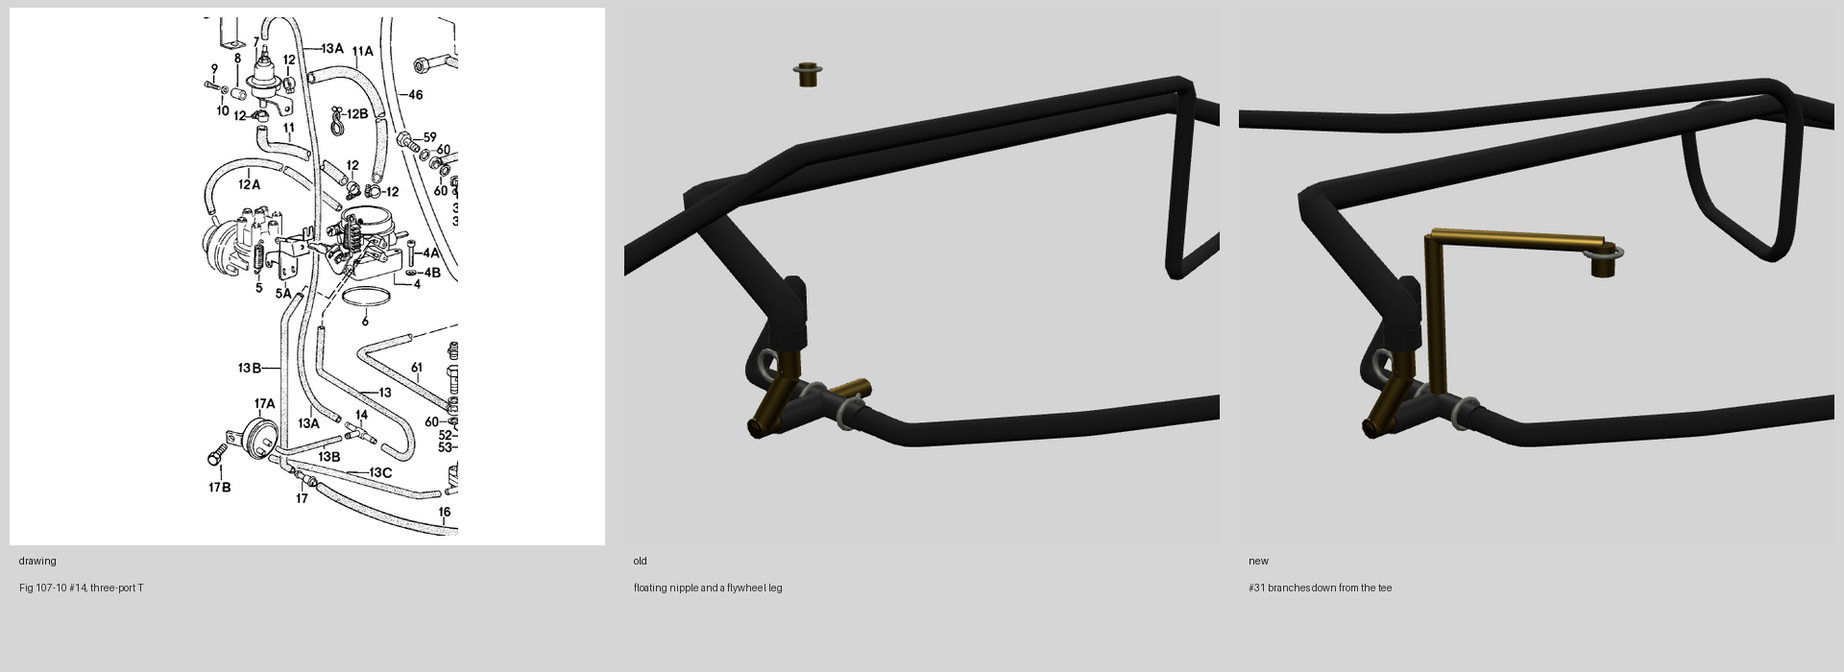
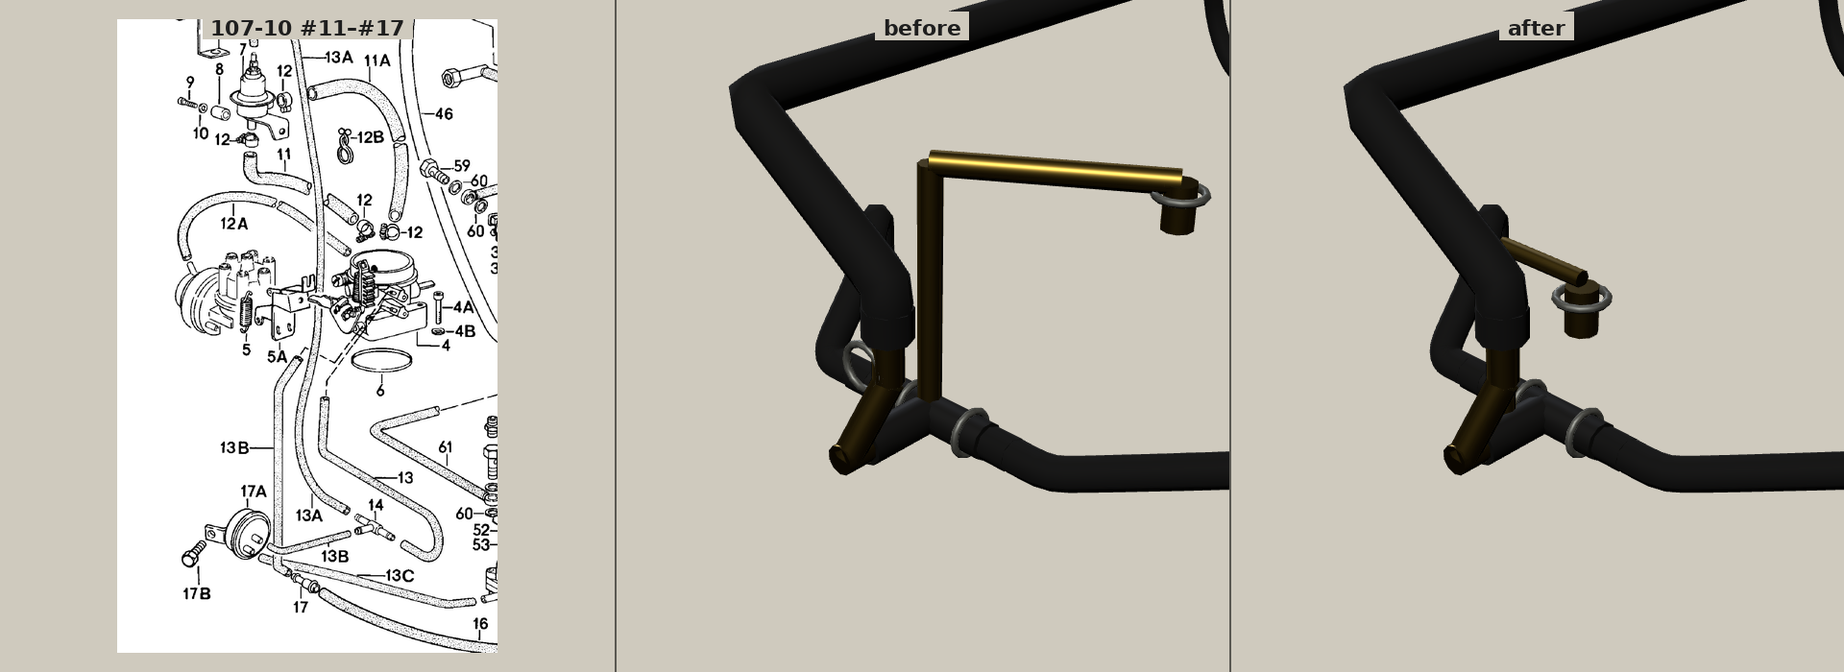
Seat the diverter barb off the tee cross and drop the stray clamp ring.
The upright zinc ring beside the elbow had no barb in it. The tall riser to (40, 300, 40) is gone. TEE_AIR_INJ is the 8 mm nipple at (22, 286, 70), axis (0, -1, 0), with 5.3 mm of free brass below its ring and a clear downward lead-in.

diff --git a/tests/vacuum-barbs.test.ts b/tests/vacuum-barbs.test.ts
@@ -11,6 +11,7 @@ const BRASS = 0xc9a54a;
 const PLASTIC = 0x151515;
 const CAST = 0x96989a;
 const RUBBER = 0x0e0e0e;
+const ZINC = 0xb4b6ae;
 
 const INDUCTION_HW = new Set(
   SMALL_SPECS.filter((s) => s.step === 'intake' || s.step === 'cis').map((s) => s.id),
@@ -368,6 +369,186 @@ describe('diverter barb lead-in', () => {
       if (hit && hit.distance < best) { best = hit.distance; who = p.id; }
     }
     expect(best + 0.5, `first hit ${who}`).toBeGreaterThanOrEqual(30);
+  });
+});
+
+type Ring = { part: string; center: THREE.Vector3; axis: THREE.Vector3; tube: number };
+
+/** Hole axis of a torus. Vertices stay in generator order after a baked rotation. */
+function torusFrame(geom: THREE.BufferGeometry, world: THREE.Matrix4): { center: THREE.Vector3; axis: THREE.Vector3 } | null {
+  const radial = params(geom)?.radialSegments;
+  const tubular = params(geom)?.tubularSegments;
+  if (radial == null || tubular == null) return null;
+  const stride = tubular + 1;
+  const P = geom.attributes.position;
+  const centers: THREE.Vector3[] = [];
+  for (let i = 0; i < tubular; i++) {
+    const c = new THREE.Vector3();
+    let n = 0;
+    for (let j = 0; j < radial; j++) {
+      c.add(new THREE.Vector3().fromBufferAttribute(P, j * stride + i));
+      n++;
+    }
+    if (n) centers.push(c.multiplyScalar(1 / n).applyMatrix4(world));
+  }
+  if (centers.length < 3) return null;
+  const center = new THREE.Vector3();
+  for (const c of centers) center.add(c);
+  center.multiplyScalar(1 / centers.length);
+  const axis = new THREE.Vector3();
+  for (let i = 0; i < centers.length; i++) {
+    const a = centers[i], b = centers[(i + 1) % centers.length];
+    axis.x += (a.y - center.y) * (b.z - center.z) - (a.z - center.z) * (b.y - center.y);
+    axis.y += (a.z - center.z) * (b.x - center.x) - (a.x - center.x) * (b.z - center.z);
+    axis.z += (a.x - center.x) * (b.y - center.y) - (a.y - center.y) * (b.x - center.x);
+  }
+  if (axis.lengthSq() < 1e-8) return null;
+  return { center, axis: axis.normalize() };
+}
+
+function clampRings(): Ring[] {
+  const rings: Ring[] = [];
+  for (const part of PARTS) {
+    if (!inScope(part.id)) continue;
+    const root = ASSET_BUILDERS[part.asset]();
+    root.updateMatrixWorld(true);
+    const pose = poseOf(part.id);
+    root.traverse((o) => {
+      const mesh = o as THREE.Mesh;
+      if (!mesh.isMesh) return;
+      const hex = (mesh.material as THREE.MeshStandardMaterial)?.color?.getHex?.();
+      if (hex !== ZINC) return;
+      const tube = params(mesh.geometry)?.tube;
+      const radius = params(mesh.geometry)?.radius;
+      // Wire clamps on a barb or a small hose. Boot bands and ring terminals are larger.
+      if (tube == null || radius == null || tube < 0.55 || tube > 0.85 || radius < 3 || radius > 8) return;
+      for (const inst of instancesOf(mesh)) {
+        const frame = torusFrame(mesh.geometry, worldOf(pose, mesh, inst));
+        if (frame) rings.push({ part: part.id, ...frame, tube });
+      }
+    });
+  }
+  return rings;
+}
+
+type AxisSeg = { a: THREE.Vector3; b: THREE.Vector3; axis: THREE.Vector3 };
+
+/** Brass, plastic and rubber cylinders, plus tubular hose centrelines, in scope. */
+function clampHosts(): AxisSeg[] {
+  const segs: AxisSeg[] = [];
+  for (const part of PARTS) {
+    if (!inScope(part.id)) continue;
+    const root = ASSET_BUILDERS[part.asset]();
+    root.updateMatrixWorld(true);
+    const pose = poseOf(part.id);
+    root.traverse((o) => {
+      const mesh = o as THREE.Mesh;
+      if (!mesh.isMesh) return;
+      const hex = (mesh.material as THREE.MeshStandardMaterial)?.color?.getHex?.();
+      const named = typeof mesh.name === 'string' && mesh.name.startsWith('line:');
+      const tubular = params(mesh.geometry)?.tubularSegments;
+      for (const inst of instancesOf(mesh)) {
+        const world = worldOf(pose, mesh, inst);
+        if ((hex === BRASS || hex === PLASTIC || hex === RUBBER) && params(mesh.geometry)?.height != null) {
+          const caps = cylinderCaps(mesh.geometry, world);
+          if (caps.length === 2) {
+            segs.push({ a: caps[0].point, b: caps[1].point, axis: caps[1].point.clone().sub(caps[0].point).normalize() });
+          }
+        }
+        const line = (named || (tubular != null && hex === RUBBER)) ? tubeCenterline(mesh.geometry, world) : null;
+        if (line && line.length >= 2) {
+          for (let i = 0; i < line.length - 1; i++) {
+            const axis = line[i + 1].clone().sub(line[i]);
+            if (axis.lengthSq() < 1e-6) continue;
+            segs.push({ a: line[i], b: line[i + 1], axis: axis.normalize() });
+          }
+        }
+      }
+    });
+  }
+  return segs;
+}
+
+function onAxis(ring: Ring, seg: AxisSeg) {
+  if (Math.abs(ring.axis.dot(seg.axis)) < 0.85) return false;
+  const ab = seg.b.clone().sub(seg.a);
+  const len = ab.length();
+  if (len < 1e-6) return false;
+  const t = ring.center.clone().sub(seg.a).dot(seg.axis);
+  if (t < -2 || t > len + 2) return false;
+  const radial = ring.center.clone().sub(seg.a).addScaledVector(seg.axis, -t).length();
+  return radial < 1.6;
+}
+
+describe('vacuum clamp rings', () => {
+  const rings = clampRings();
+  const hosts = clampHosts();
+
+  it('every clamp ring is coaxial with a barb or a hose', () => {
+    const bare = rings.filter((ring) => !hosts.some((seg) => onAxis(ring, seg)));
+    expect(bare.map((r) => `${r.part} @ ${r.center.toArray().map((n) => n.toFixed(0)).join(',')}`)).toEqual([]);
+  });
+
+  it('the diverter barb keeps at least 5 mm of free brass below its clamp ring', () => {
+    const tip = new THREE.Vector3(...TEE_AIR_INJ.point);
+    const axis = new THREE.Vector3(...TEE_AIR_INJ.axis).normalize();
+    const ring = rings
+      .filter((r) => Math.abs(r.axis.dot(axis)) > 0.9 && r.center.distanceTo(tip) < 12)
+      .sort((a, b) => a.center.distanceTo(tip) - b.center.distanceTo(tip))[0];
+    expect(ring, 'clamp ring on TEE_AIR_INJ').toBeTruthy();
+    const along = ring.center.clone().sub(tip).dot(axis);
+    // The ring sits toward the root. Free brass is from its near edge to the tip.
+    const free = Math.abs(along) - ring.tube;
+    expect(free, `free barb ${free.toFixed(2)} mm`).toBeGreaterThanOrEqual(5);
+  });
+});
+
+describe('tee clearance to vacuum hoses', () => {
+  it('the tee and its barbs stay at least 2 mm off every vacuum hose except the seated lead', () => {
+    const root = ASSET_BUILDERS[PART_BY_ID['vacuum-fittings'].asset]();
+    root.updateMatrixWorld(true);
+    const teePts: number[] = [];
+    const hoses = new Map<string, THREE.Vector3[]>();
+    const v = new THREE.Vector3();
+    root.traverse((o) => {
+      const mesh = o as THREE.Mesh;
+      if (!mesh.isMesh) return;
+      const g = mesh.geometry.index ? mesh.geometry.toNonIndexed() : mesh.geometry;
+      const P = g.attributes.position;
+      if (mesh.parent?.name === 'fitting:vac-t') {
+        for (let i = 0; i < P.count; i++) {
+          v.fromBufferAttribute(P, i).applyMatrix4(mesh.matrixWorld);
+          teePts.push(v.x, v.y, v.z);
+        }
+      }
+      if (typeof mesh.name === 'string' && mesh.name.startsWith('line:vac-')) {
+        const id = mesh.name.slice(5);
+        const list = hoses.get(id) ?? [];
+        for (let i = 0; i < P.count; i++) list.push(new THREE.Vector3().fromBufferAttribute(P, i).applyMatrix4(mesh.matrixWorld));
+        hoses.set(id, list);
+      }
+    });
+    const geom = new THREE.BufferGeometry();
+    geom.setAttribute('position', new THREE.Float32BufferAttribute(teePts, 3));
+    const bvh = new MeshBVH(geom);
+    const target = new THREE.Vector3();
+    const report: string[] = [];
+    const bad: string[] = [];
+    for (const [id, pts] of hoses) {
+      const gaps: { d: number; p: THREE.Vector3 }[] = [];
+      for (let i = 0; i < pts.length; i += 2) {
+        const hit = bvh.closestPointToPoint(pts[i], target) as { distance: number } | null;
+        if (hit) gaps.push({ d: hit.distance, p: pts[i] });
+      }
+      const contact = gaps.filter((g) => g.d < 1.2).map((g) => g.p);
+      const passing = gaps.filter((g) => contact.every((c) => g.p.distanceTo(c) > 16));
+      const pool = passing.length ? passing : gaps;
+      let min = Infinity;
+      for (const g of pool) if (g.d < min) min = g.d;
+      report.push(`${id} ${min.toFixed(2)}`);
+      if (min < 2) bad.push(`${id} ${min.toFixed(2)} mm`);
+    }
+    expect(bad, report.join('; ')).toEqual([]);
   });
 });
 

diff --git a/src/data/smallSpec.ts b/src/data/smallSpec.ts
@@ -89,7 +89,7 @@ export const SMALL_SPECS: SmallSpec[] = [
   S('additional-air-valve', 'Additional air valve', 1, 'intake', 'plenum', [], '911 110 273 00', 'Additional air valve 911 110 273 00 (107-10 #39, tags -80) with support #40 and spring washers #41. The later 911 110 273 01 (81-) is not used.'),
   S('aux-air-plumbing', 'Auxiliary air hoses and pipes', 1, 'intake', 'plenum', [], 'Hose line, pipeline, connecting pipe, clamps', 'Hose line (#43) from the air-flow meter is about Ø25 (clamps S 25/9). The lower pipe into the manifold is Ø16, because the shroud gap will not take Ø25. Pipeline (#46), connecting pipe (#47) and the seven clamps.'),
   S('vacuum-limiter', 'Vacuum limiter', 1, 'intake', 'plenum', [], 'Limiter + sleeve + bolt', 'Vacuum limiter (107-10 #7-#10) on the distributor top. Base coincident with the box.'),
-  S('vacuum-fittings', 'Vacuum T-piece and clamps', 1, 'intake', 'plenum', [], 'T-piece, reducing socket, clamps', 'T-piece 999 137 004 40 (#14) is a three-port fitting: manifold, limiter, and the elbow to thermo valve 17A. No flywheel leg. The diverter hose 108-00 #31 (999 239 003 40) branches off that tee on a downward barb. Reducing socket 930 110 273 02 (#17), thermo valve (illustration 17A, not a text line) and nine hose pieces in three sizes. Clamps #12 and #15.'),
+  S('vacuum-fittings', 'Vacuum T-piece and clamps', 1, 'intake', 'plenum', [], 'T-piece, reducing socket, clamps', 'T-piece 999 137 004 40 (#14) is a three-port fitting: manifold, limiter, and the elbow to thermo valve 17A. No flywheel leg. The diverter hose 108-00 #31 (999 239 003 40) seats on a short downward barb of that tee. Reducing socket 930 110 273 02 (#17), thermo valve (illustration 17A, not a text line) and nine hose pieces in three sizes. Clamps #12 and #15.'),
   S('airbox-clamps', 'Air-guide hose clamps', 2, 'air-cleaner', 'air-cleaner-lid', [], 'S 131/9 and S 85/9', 'Hose clamps (107-10 #19 S 131/9 on the meter mouth, #20 S 85/9 on the throttle mouth) of the air guide 930 110 358 05.'),
   S('afm-screws', 'Air-flow meter flange screws', 6, 'cis', 'mixture-control-unit', [], 'M6×25 + spring + washer', 'Six spring-loaded pan-head screws (107-10 #1–#3, 900 067 089 02, spring 911 110 364 00, washer 6.4) around the air-flow-meter flange.'),
   S('throttle-housing', 'Throttle housing (flap nozzle)', 1, 'intake', 'plenum', [], '930 110 248 02 + O-ring 67.5×4', 'Separate flap housing (107-10 #4, 930 110 248 02 for 930.04) on the pulley face of the air distributor, with return spring #5, O-ring #6 67.5×4 and four M6×35 screws. A ported-vacuum nipple on the left side of the barrel, axis −X, seats the EGR hose (202-05 #16); that illustration is not in the extract.'),
@@ -175,7 +175,7 @@ function ancillarySmall(): SmallSpec[] {
     S('air-hose-pump', 'Air-pump hose', 1, 'belt', 'fan-pulley', ['air-pump', 'air-diverter'], 'Hose', 'Hose 930 113 138 03 (108-00 #28) seated on the pump outlet and the diverter inlet.', line('108-00', '28', '930 113 138 03', 1)),
     S('air-hose-valve', 'Air-pump hose to check valve', 1, 'belt', 'fan-pulley', ['air-diverter', 'air-check-valve'], 'Hose', 'Hose 930 113 137 01 (108-00 #29) seated on the diverter outlet and the check-valve inlet.', line('108-00', '29', '930 113 137 01', 1)),
     S('air-hose-dump', 'Air-pump dump hose', 1, 'belt', 'fan-pulley', ['air-diverter'], 'Hose', 'Hose 930 113 139 02 (Kat 502 p.141, illustration 108-00 item 30). Short straight open sleeve, about 65 mm, OD 16, seated on the diverter dump nipple. No clamp on this hose.', line('108-00', '30', '930 113 139 02', 1)),
-    S('air-hose-vacuum', 'Air-pump vacuum hose', 1, 'belt', 'fan-pulley', [], 'Hose 3.2 × 7', 'Vacuum hose 999 239 003 40 (108-00 #31) ended on the diverter vacuum nipple and on TEE_AIR_INJ, the spare tee branch.', line('108-00', '31', '999 239 003 40', 1)),
+    S('air-hose-vacuum', 'Air-pump vacuum hose', 1, 'belt', 'fan-pulley', [], 'Hose 3.2 × 7', 'Vacuum hose 999 239 003 40 (108-00 #31) ended on the diverter vacuum nipple and on TEE_AIR_INJ. The run in bottomAnc.ts is still the previous hardcoded path.', line('108-00', '31', '999 239 003 40', 1)),
     S('air-clamp-pump', 'Air-pump hose clamp', 1, 'belt', 'fan-pulley', ['air-hose-pump', 'air-pump'], 'Hose clamp', 'Worm-drive clamp 999 512 038 02 (108-00 #32) on the pump-hose spigot.', line('108-00', '32', '999 512 038 02', 1)),
     S('air-clamp-valve', 'Air-pump hose clamp', 1, 'belt', 'fan-pulley', ['air-hose-valve'], 'Hose clamp', 'Worm-drive clamp PCG 512 237 02 (108-00 #32A) on the check-valve hose.', line('108-00', '32A', 'PCG 512 237 02', 1)),
     S('air-clamp-dump', 'Air-pump hose clamps', 2, 'belt', 'fan-pulley', ['air-hose-pump', 'air-hose-valve', 'air-diverter'], 'Hose clamp', 'Worm-drive clamps 999 512 296 02 (Kat 502 p.141, illustration 108-00 item 33, qty 2). Both are drawn on items 28 and 29: one on the pump hose at the diverter inlet, one on the check-valve hose at the diverter outlet.', line('108-00', '33', '999 512 296 02', 2)),

diff --git a/src/geo/induction.ts b/src/geo/induction.ts
@@ -68,14 +68,17 @@ export const MANIFOLD_VAC = { tip: [-30, 268, 40] as V3, axis: [0, 1, 0] as V3 }
  * Diverter-vacuum barb on the manifold tee (107-10 #14, 999 137 004 40).
  * Seat for 108-00 #31 (999 239 003 40, 3.2×7, 750 mm). That hose is the air-injection
  * diverter's manifold-vacuum signal. Fig 107-10 draws #14 as a three-port T: the
- * manifold hose, the limiter hose, and the elbow up to thermo valve 17A. #31 does
- * not get a fourth port aimed at the flywheel, and it does not float above the tee.
- * The branch leaves the tee body, and the last 8 mm hangs on −Y so the emissions-off
- * cap, which is built from this constant, still fits. Bottom End's air-hose-vacuum
- * is a hardcoded run and still ends on the previous point.
+ * manifold hose, the limiter hose, and the elbow up to thermo valve 17A. #31 is not
+ * a fourth port aimed at the flywheel. The nipple is the last 8 mm, on −Y, so the
+ * emissions-off cap built from this constant still fits, with 5.3 mm of free brass
+ * below the clamp ring. The plastic cross lies on the plenum lid, so this nipple
+ * stands just off the cross: high enough for 30 mm of air under the tip, and clear
+ * of the cross so the ray does not meet it. The 750 mm hose leaves straight down
+ * that axis. Bottom End's air-hose-vacuum is a hardcoded run and still ends on the
+ * previous point.
  */
 export const TEE_AIR_INJ = {
-  point: [40, 300, 40] as V3,
+  point: [22, 286, 70] as V3,
   axis: [0, -1, 0] as V3,
 };
 /**
@@ -1109,7 +1112,7 @@ export function serviceHoses(): FuelLineDef[] {
     { id: 'aux-meter', part: 'aux-air-plumbing', a: endOf('mixture-control-unit', AFM_AUX.tip, AFM_AUX.axis), b: endOf('aux-air-valve', aav.up.tip, aav.up.axis) },
     { id: 'aux-manifold', part: 'aux-air-plumbing', a: endOf('aux-air-valve', aav.down.tip, aav.down.axis), b: endOf('plenum', PLENUM_AUX.tip, PLENUM_AUX.axis) },
     // Three small hoses (3.2×7): manifold, limiter, distributor.
-    // 108-00 #31 is not one of them. It seats on TEE_AIR_INJ, the downward branch of this tee.
+    // 108-00 #31 is not one of them. It seats on TEE_AIR_INJ, the short barb above this tee.
     { id: 'vac-manifold', part: 'vacuum-fittings', a: endOf('plenum', MANIFOLD_VAC.tip, MANIFOLD_VAC.axis), b: on(t.minusX.tip, t.minusX.axis) },
     { id: 'vac-limiter', part: 'vacuum-fittings', a: on(t.plusX.tip, t.plusX.axis), b: endOf('vacuum-limiter', lim.tip, lim.axis) },
     { id: 'vac-distributor', part: 'vacuum-fittings', a: on(VAC_THERMO.dist.tip, VAC_THERMO.dist.axis), b: endOf('distributor', DIST_VAC_NIPPLE.point, DIST_VAC_NIPPLE.dir) },

diff --git a/src/geo/smallParts.ts b/src/geo/smallParts.ts
@@ -469,20 +469,25 @@ def('vacuum-fittings', () => {
   t.add(mesh(cylBetween([ox, oy, oz + 20], [10, 274, 76], 2.8, 8), 'brass'));
   // Last 8 mm is along +Y so the hose seat is a flat face on vacTPorts().plusZ.
   t.add(mesh(cylBetween([10, 274, 76], [10, 282, 76], 2.8, 8), 'brass'));
-  // Rings around the three catalogue barbs, inboard of each tip.
-  // Fig 107-10 #14 is a three-port T. There is no flywheel (−Z) leg to cap.
+  // Rings on the manifold and limiter barbs, inboard of each tip.
+  // Fig 107-10 #14 is a three-port T. There is no flywheel (−Z) leg, and no
+  // clamp ring standing beside the elbow with an empty hole.
   const xRing = torus(4.2, 0.7, 6, 14).rotateY(Math.PI / 2);
   t.add(mesh(xRing, 'zincPlate', [ox - 4, oy, oz]));
   t.add(mesh(xRing.clone(), 'zincPlate', [ox + 10, oy, oz]));
-  t.add(mesh(torus(4.2, 0.7, 6, 14), 'zincPlate', [ox, 276, 78]));
-  // 108-00 #31 branches off this tee. The run is one piece with the T body.
-  // Last 8 mm is cylBetween(root, tip, 2.8, 10) on −Y, which is the barb the
+  // 108-00 #31 is a short barb on this body. The plastic cross sits on the plenum
+  // lid, so a nipple on the cross points into the lid, and one directly above
+  // the cross meets the cross on the way down. The branch rises just far enough
+  // for 30 mm of air below the tip and stands off the cross so that ray misses
+  // it. Last 8 mm is cylBetween(root, tip, 2.8, 10) on −Y, which is the barb the
   // emissions-off cap is built against. Ring centre is 6 mm above the tip
   // (tube r 0.7), so 5.3 mm of free barb sits below the ring.
   const [ix, iy, iz] = TEE_AIR_INJ.point;
   const root: [number, number, number] = [ix, iy + 8, iz];
-  t.add(mesh(cylBetween([ox, oy, oz], [ox, root[1], oz], 2.2, 8), 'brass'));
-  t.add(mesh(cylBetween([ox, root[1], oz], root, 2.2, 8), 'brass'));
+  const stemX = ox - 2;
+  const joinY = iy + 9.2;
+  t.add(mesh(cylBetween([stemX, oy, iz], [stemX, joinY, iz], 2, 8), 'brass'));
+  t.add(mesh(cylBetween([stemX, joinY, iz], [ix, joinY, iz], 1.5, 8), 'brass'));
   t.add(mesh(cylBetween(root, [ix, iy, iz], 2.8, 10), 'brass'));
   t.add(mesh(torus(4.2, 0.7, 6, 14).rotateX(Math.PI / 2), 'zincPlate', [ix, iy + 6, iz]));
   p.g.add(t);

diff --git a/docs/photo-refs.md b/docs/photo-refs.md
@@ -61,6 +61,6 @@ Shapes, part numbers and quantities for the intake and fuel system follow Porsch
 |---|---|---|
 | 106-00 | 97 | Air distributor and intake pipes. Housing **911 110 106 13** (#9, 49-state, not the California 911 110 106 15) is the tray, with the snout on lid **930 110 184 00** (#14). Six pipes **911 110 420 06 / 470 06 / 480 06 / 440 06 / 450 06 / 490 06** (#1–#6). Cylinder 6 is **911 110 490 06**, not the California/Japan 911 110 420 06. Sleeves **928 110 158 01** (#10). Struts **911 110 133 02** (#18) and **911 110 269 00** (#19, tags -80), buffers **911 110 154 00** (#20). Pipe 3 is drawn with two studs; the text extract has no 3A line. |
 | 107-00 | 106 | Mixture control unit. Fuel distributor **911 110 967 00** (#1): waisted lower housing with vertical ribs, separate upper housing, joint at mid-height, hex outlet towers about 15 mm proud (E), raised hub at the top centre. Outlet circle Ø76 mm (E, from the A 8×11.5 ring on this page). Air-flow meter **911 110 965 00** (#2). The centre fitting is screw socket **911 110 160 01** (107-10 #49) for control-pressure line #51, not a seventh banjo. |
-| 107-10 | 110 (drawing), 111–113 (text) | Fuel circuit, throttle, air guide, auxiliary air, vacuum. US regulator **911 606 102 04** (#36, remark USA), not RoW 911 606 102 01. Additional air valve **911 110 273 00** (#39, tags -80) with support **911 110 274 01** (#40). Throttle housing **930 110 248 02** (#4) with O-ring 67.5×4 (#6). The ported-vacuum nipple for the EGR hose sits on the housing body, on the left side of the barrel, axis −X, not on the pulley face. Air guide **930 110 358 05** (#18). Nine vacuum hose pieces in three sizes; thermo valve is illustration 17A (no text line). Reducing socket **930 110 273 02** (#17). T-piece **999 137 004 40** (#14) is a three-port fitting (manifold, limiter, thermo valve). The diverter hose 108-00 #31 takes manifold vacuum from a downward branch of that tee, not from a fourth flywheel barb. Cold-start intermediate piece **911 110 264 00** (#32). Fuel line **930 110 502 00** (#51) leaves screw socket #49 on the distributor hub (union nut) for the warm-up connection piece #52. Fuel line **930 110 513 00** (#61) runs from the warm-up banjo to the return-side M12 connection piece (#57). |
+| 107-10 | 110 (drawing), 111–113 (text) | Fuel circuit, throttle, air guide, auxiliary air, vacuum. US regulator **911 606 102 04** (#36, remark USA), not RoW 911 606 102 01. Additional air valve **911 110 273 00** (#39, tags -80) with support **911 110 274 01** (#40). Throttle housing **930 110 248 02** (#4) with O-ring 67.5×4 (#6). The ported-vacuum nipple for the EGR hose sits on the housing body, on the left side of the barrel, axis −X, not on the pulley face. Air guide **930 110 358 05** (#18). Nine vacuum hose pieces in three sizes; thermo valve is illustration 17A (no text line). Reducing socket **930 110 273 02** (#17). T-piece **999 137 004 40** (#14) is a three-port fitting (manifold, limiter, thermo valve). The diverter hose 108-00 #31 takes manifold vacuum from a short downward barb of that tee, at (22, 286, 70), axis (0, −1, 0), not from a fourth flywheel barb. Cold-start intermediate piece **911 110 264 00** (#32). Fuel line **930 110 502 00** (#51) leaves screw socket #49 on the distributor hub (union nut) for the warm-up connection piece #52. Fuel line **930 110 513 00** (#61) runs from the warm-up banjo to the return-side M12 connection piece (#57). |
 
 Group 107-15 (1980–83) is not used. The breather hose 901 107 394 00 and the heater hoses are left off. Illustrations 108-00 (air injection) and 202-05 (EGR) are not in the checklist extract. Hose **999 239 003 40** #31 (diverter valve to the manifold tee, 3.2×7, 750 mm) and #16 (EGR, 770 mm, to the throttle nipple) are not part of the nine-piece 107-10 harness. #31 branches off T-piece #14.

diff --git a/docs/engine-spec.md b/docs/engine-spec.md
@@ -552,7 +552,7 @@ Two struts carry the canister: straight `911 110 133 02` (#18) and angled `911 1
 
 Vacuum, nine pieces in three sizes (the bulk hoses are sold by the metre, so the checklist does not count cuts): small r 3.2 mm (3.2×7) for the manifold, the limiter and the distributor; medium r 4.5 mm (Ø9) for the thermo valve, the reducing socket and the additional-air signal; large r 7 mm (8×14 OD) for the three short runs on the socket cluster. The thermo valve is illustration 17A. It is not a line in the text extract, so it is drawn and not claimed. The distributor hose still ends on `DIST_VAC_NIPPLE`.
 
-Two further vacuum seats are not part of that nine-piece harness. Illustration 108-00 #31 (`999 239 003 40`, the diverter-valve hose) and illustration 202-05 #16 (the same hose, 770 mm, EGR to the throttle) are outside the checklist extract, so they are not claimed and their long hoses are not drawn here. The T-piece (#14, 999 137 004 40) is a three-port fitting: manifold, limiter, and the elbow to thermo valve 17A. It has no flywheel leg; stopper 930 110 292 00 is an unillustrated M6 plug, not a cap for that barb. The diverter hose 108-00 #31 takes manifold vacuum from a downward branch of the same tee, at (40, 300, 40), axis (0, −1, 0). The emissions-off cap is built on that constant. Bottom End's `air-hose-vacuum` is still the hardcoded run that ended on the previous point, so that hose is a pending handoff. The throttle housing carries a ported-vacuum nipple at (−48, 210, 110), axis (−1, 0, 0), on the left side of the barrel (107-10 #4, 930 110 248 02). The takeoff is on the housing body, outboard of the bore, so the EGR hose has a straight lead-in clear of the alternator slip-ring shield. The breather tower's neck is the spigot for 901 107 394 00, which the checklist leaves off the engine (the oil tank is body-mounted); there is no breather hose mesh. The heater flexible pipe seats on the left adapter mouth and on a ferrule at the body end. `tests/fuel-lines.test.ts` checks every named line, including these.
+Two further vacuum seats are not part of that nine-piece harness. Illustration 108-00 #31 (`999 239 003 40`, the diverter-valve hose) and illustration 202-05 #16 (the same hose, 770 mm, EGR to the throttle) are outside the checklist extract, so they are not claimed and their long hoses are not drawn here. The T-piece (#14, 999 137 004 40) is a three-port fitting: manifold, limiter, and the elbow to thermo valve 17A. It has no flywheel leg; stopper 930 110 292 00 is an unillustrated M6 plug, not a cap for that barb. The diverter hose 108-00 #31 takes manifold vacuum from a short downward barb of the same tee, at (22, 286, 70), axis (0, −1, 0). The nipple stands off the plastic cross so a ray down the axis clears both the cross and the plenum lid. The emissions-off cap is built on that constant. Bottom End's `air-hose-vacuum` is still the hardcoded run that ended on the previous point, so that hose is a pending handoff. The throttle housing carries a ported-vacuum nipple at (−48, 210, 110), axis (−1, 0, 0), on the left side of the barrel (107-10 #4, 930 110 248 02). The takeoff is on the housing body, outboard of the bore, so the EGR hose has a straight lead-in clear of the alternator slip-ring shield. The breather tower's neck is the spigot for 901 107 394 00, which the checklist leaves off the engine (the oil tank is body-mounted); there is no breather hose mesh. The heater flexible pipe seats on the left adapter mouth and on a ferrule at the body end. `tests/fuel-lines.test.ts` checks every named line, including these.
 
 ## 19. Distributor at the left-case pulley end
 
